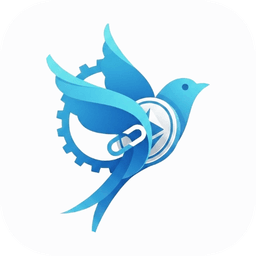
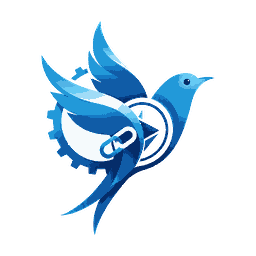
brand: new bird/rosace marks, and stop shipping the old ones forever
The bird is Bluestift, the rosace is Raya. Both now ship in a light and a
dark variant, transparent, 256x256, centred with a 10% margin so circular
masks do not bite the artwork. scripts/process-logos.py regenerates them
from assets/logos, which sits OUTSIDE /public on purpose: everything under
/public is served publicly and shipped in the deploy bundle, and the raw
crops are 1.5MB of no runtime use.

Two consequences of the swap had to be handled, and neither was obvious:

- The service worker caches /public images cache-first with no
  revalidation. The marks kept their filenames and changed their bytes, so
  every returning visitor would have kept the previous logo indefinitely.
  Bumping VERSION renames the cache, and activate drops every cache but the
  current one -- that is the only cache-bust this worker has.

- The marks are transparent now, where the old ones had a baked background.
  A blue bird on a navy sidebar is nearly invisible, so the app shell and
  the chat avatar pick the -dark variant via the theme. The PUBLIC SITE is a
  deliberate exception: it keeps the light mark in both themes (owner call --
  the blue bird is the brand signature and should not move when the page
  flips).

raya-mark-violet is renamed to raya-mark-dark, because the dark variant is
white and the old name described a colour that no longer exists. The violet
and emerald marks are removed. lib/doc-format.ts loses the violet accent for
[…]

Changed region(s): [[0.1562, 0.0938, 0.8438, 0.9062]]

diff --git a/test/brand-assets.test.ts b/test/brand-assets.test.ts
@@ -1,0 +1,84 @@
+import { describe, it, expect } from "vitest";
+import { readdirSync, readFileSync, existsSync, statSync } from "node:fs";
+import { join, extname } from "node:path";
+import { DOC_BRANDS } from "@/lib/doc-format";
+
+/**
+ * The brand marks are referenced by literal path from a dozen surfaces, so a
+ * renamed or regenerated file breaks silently: TypeScript never sees a string
+ * like "/raya-mark.png", and a 404'd <img> just renders nothing. This suite is
+ * the only thing that connects the two sides.
+ */
+
+const ROOT = join(__dirname, "..");
+const PUBLIC = join(ROOT, "public");
+const SCAN = ["app", "components", "lib"];
+const SOURCE_EXT = new Set([".ts", ".tsx"]);
+
+function sourceFiles(dir: string): string[] {
+  const out: string[] = [];
+  for (const entry of readdirSync(dir, { withFileTypes: true })) {
+    const full = join(dir, entry.name);
+    if (entry.isDirectory()) out.push(...sourceFiles(full));
+    else if (SOURCE_EXT.has(extname(entry.name))) out.push(full);
+  }
+  return out;
+}
+
+const FILES = SCAN.flatMap((d) => sourceFiles(join(ROOT, d)));
+
+/** Every "/something-mark[-variant].png" literal appearing in app source. */
+function referencedMarks(): Map<string, string[]> {
+  const found = new Map<string, string[]>();
+  for (const file of FILES) {
+    const text = readFileSync(file, "utf8");
+    for (const m of text.matchAll(/["'](\/[a-z0-9-]*mark[a-z0-9-]*\.png)["']/g)) {
+      const rel = file.slice(ROOT.length + 1).replace(/\\/g, "/");
+      found.set(m[1], [...(found.get(m[1]) ?? []), rel]);
+    }
+  }
+  return found;
+}
+
+describe("brand marks", () => {
+  it("every mark referenced in app source exists in /public", () => {
+    const refs = referencedMarks();
+    // Guard the guard: if the regex ever stops matching, the suite would pass
+    // vacuously and we'd learn nothing.
+    expect(refs.size).toBeGreaterThan(3);
+
+    const missing = [...refs.entries()]
+      .filter(([path]) => !existsSync(join(PUBLIC, path)))
+      .map(([path, users]) => `${path} (used by ${users.join(", ")})`);
+    expect(missing).toEqual([]);
+  });
+
+  it("each light mark has the dark variant the themed surfaces need", () => {
+    // A transparent light mark (blue/black artwork) vanishes on a dark surface,
+    // so the -dark counterpart must exist for every base mark we ship.
+    for (const base of ["bluestift-mark", "raya-mark"]) {
+      expect(existsSync(join(PUBLIC, `${base}.png`)), `${base}.png`).toBe(true);
+      expect(existsSync(join(PUBLIC, `${base}-dark.png`)), `${base}-dark.png`).toBe(true);
+    }
+  });
+
+  it("keeps the marks small enough for a 2G/3G first paint", () => {
+    // They are quantised by scripts/process-logos.py; skipping that step ships
+    // them at ~4x weight, which is exactly the regression worth catching.
+    for (const name of readdirSync(PUBLIC).filter((f) => /mark.*\.png$/.test(f))) {
+      const kb = statSync(join(PUBLIC, name)).size / 1024;
+      expect(kb, `${name} is ${kb.toFixed(1)} KB`).toBeLessThan(20);
+    }
+  });
+
+  it("exported documents point at a logo that exists", () => {
+    for (const brand of Object.values(DOC_BRANDS)) {
+      expect(existsSync(join(PUBLIC, brand.logo)), brand.logo).toBe(true);
+      expect(brand.accent).toMatch(/^#[0-9a-f]{6}$/);
+    }
+  });
+
+  it("keeps the raw logo sources out of /public, which is served publicly", () => {
+    expect(existsSync(join(PUBLIC, "logos"))).toBe(false);
+  });
+});

diff --git a/lib/doc-format.ts b/lib/doc-format.ts
@@ -19,7 +19,9 @@ export type BrandInfo = {
 /** Brand identity for a document. Schools/prof docs are Bluestift; Raya docs are Raya. */
 export const DOC_BRANDS: Record<DocBrand, BrandInfo> = {
   bluestift: { name: "Bluestift", logo: "/bluestift-mark.png", accent: "#2f7fe0", url: "thebluestift.com" },
-  raya: { name: "Raya", logo: "/raya-mark.png", accent: "#6366f1", url: "thebluestift.com" },
+  // Raya's accent is sampled from its own mark (the deep blue of the rosace), not
+  // the old violet — a document header must not clash with the logo printed above it.
+  raya: { name: "Raya", logo: "/raya-mark.png", accent: "#0248d1", url: "thebluestift.com" },
 };
 
 export type DocBlockType = "h1" | "h2" | "h3" | "p" | "li";

diff --git a/components/site/Navbar.tsx b/components/site/Navbar.tsx
@@ -83,6 +83,9 @@ export default function Navbar({
         <Link href="/" style={{ display: "flex", alignItems: "center", gap: 8, textDecoration: "none" }}>
           {/* eslint-disable-next-line @next/next/no-img-element */}
           <img
+            // The public site keeps the light mark in both themes, by design:
+            // the blue bird is the brand signature and stays put when the page
+            // flips to dark. Only the app shell swaps in the -dark variant.
             src="/bluestift-mark.png"
             alt="BlueStift"
             style={{ width: 44, height: 44, borderRadius: "50%", objectFit: "cover", flexShrink: 0 }}

diff --git a/components/site/Footer.tsx b/components/site/Footer.tsx
@@ -89,6 +89,7 @@ export default function Footer({ theme: t, variant = "full" }: { theme: Theme; v
         <div className="pub-footer-grid" style={{ marginBottom: 40 }}>
           <div>
             <div style={{ display: "flex", alignItems: "center", gap: 8, marginBottom: 12 }}>
+              {/* Light mark in both themes — see the note in Navbar.tsx. */}
               {/* eslint-disable-next-line @next/next/no-img-element */}
               <img src="/bluestift-mark.png" alt="BlueStift" style={{ width: 26, height: 26, borderRadius: 7, objectFit: "cover" }} />
               <span style={{ fontSize: 15, fontWeight: 800 }}>

diff --git a/public/sw.js b/public/sw.js
@@ -21,7 +21,12 @@
  * to the next, and a stale API response is worse than none.
  */
 
-const VERSION = "v1";
+// Bump on any change to a STABLE public asset. `cacheFirst` never revalidates a
+// /public image, so a file that keeps its name but changes its bytes (the brand
+// marks did) would otherwise be served from the old cache forever. Bumping the
+// version renames the cache, and `activate` deletes every cache but the current
+// one — that is the only cache-bust this worker has.
+const VERSION = "v2";
 const STATIC_CACHE = `bluestift-static-${VERSION}`;
 const OFFLINE_URL = "/offline.html";
 /**

diff --git a/components/raya/raya-app.tsx b/components/raya/raya-app.tsx
@@ -97,7 +97,7 @@ export function RayaApp() {
         expandedWidth={212}
         onBackgroundClick={() => setCollapsed((c) => !c)}
       >
-        <SidebarBrand theme={t} collapsed={collapsed} logoSrc="/raya-mark.png" logoSrcDark="/raya-mark-violet.png" logoRadius={0} logoSize={52} name="Raya" />
+        <SidebarBrand theme={t} collapsed={collapsed} logoSrc="/raya-mark.png" logoSrcDark="/raya-mark-dark.png" logoRadius={0} logoSize={52} name="Raya" />
 
         <NavItem
           theme={t}

diff --git a/components/chat/chat-avatar.tsx b/components/chat/chat-avatar.tsx
@@ -42,7 +42,7 @@ export function ChatAvatar({
       <span style={{ ...base, background: t.dark ? "#141b2e" : "#ffffff", border: `1px solid ${t.cardBorder}` }}>
         {/* eslint-disable-next-line @next/next/no-img-element */}
         <img
-          src={t.dark ? "/raya-mark-violet.png" : "/raya-mark.png"}
+          src={t.dark ? "/raya-mark-dark.png" : "/raya-mark.png"}
           alt="Raya"
           style={{ width: "82%", height: "82%", objectFit: "contain" }}
         />

diff --git a/components/ui/shell.tsx b/components/ui/shell.tsx
@@ -197,7 +197,8 @@ export function SidebarBrand({
   theme: AppTheme;
   collapsed: boolean;
   logoSrc: string;
-  /** Optional dark-mode logo (e.g. emerald rosace); falls back to `logoSrc`. */
+  /** Dark-mode logo. The marks are transparent, so the light variant (blue artwork)
+   *  disappears on a dark sidebar — pass the `-dark` file here. Falls back to `logoSrc`. */
   logoSrcDark?: string;
   logoRadius?: number;
   logoSize?: number;

diff --git a/components/site/LanguagePrompt.tsx b/components/site/LanguagePrompt.tsx
@@ -138,6 +138,7 @@ export function LanguagePrompt({ theme: t }: { theme: Theme }) {
       >
         {/* eslint-disable-next-line @next/next/no-img-element */}
         <img
+          // Light mark in both themes — see the note in Navbar.tsx.
           src="/bluestift-mark.png"
           alt=""
           style={{ width: 40, height: 40, borderRadius: "50%", objectFit: "cover", margin: "0 auto 14px", display: "block" }}

diff --git a/components/raya/raya-shell.tsx b/components/raya/raya-shell.tsx
@@ -172,7 +172,7 @@ export function RayaShell({
           theme={t}
           collapsed={effectiveCollapsed}
           logoSrc="/raya-mark.png"
-          logoSrcDark="/raya-mark-violet.png"
+          logoSrcDark="/raya-mark-dark.png"
           logoRadius={0}
           logoSize={52}
           name={<RayaName />}

diff --git a/components/school/schools-shell.tsx b/components/school/schools-shell.tsx
@@ -119,6 +119,7 @@ export function SchoolsShell({
           theme={t}
           collapsed={effectiveCollapsed}
           logoSrc="/bluestift-mark.png"
+          logoSrcDark="/bluestift-mark-dark.png"
           logoRadius={9}
           logoSize={30}
           name={<SchoolsName />}

diff --git a/scripts/process-logos.py b/scripts/process-logos.py
@@ -1,0 +1,204 @@
+"""
+Turn the delivered logo crops in assets/logos into the canonical brand marks in
+public/. Run from the repo root:  python scripts/process-logos.py
+Needs Pillow. The sources live outside /public deliberately — they are 1.5 MB of
+raw crops with no runtime use, and everything under /public is served publicly.
+
+AFTER RUNNING THIS, BUMP `VERSION` IN public/sw.js. The marks keep their
+filenames, and the service worker caches /public images with no revalidation, so
+returning visitors would otherwise keep the previous logo forever.
+
+Each source is a screenshot-style crop: opaque baked background, off-centre,
+inconsistent aspect ratio, and (on the navy ones) leftover white strips from the
+crop. This produces square, transparent, 256x256 marks.
+
+Steps per file:
+  1. Flood-fill the background from the border only. Border-connected fill is
+     what preserves the WHITE INSIDE the artwork (the petals and the compass
+     face are white too) - a global "make white transparent" would punch holes
+     through the mark itself.
+  2. Drop leftover crop strips: any opaque island that still touches the image
+     edge and is thin in one dimension.
+  3. Trim to the artwork, pad to a centred square with a 10% margin so the mark
+     doesn't collide with the circular masks the UI applies.
+  4. Downscale to 256x256 (Lanczos), quantise to a small palette, and write an
+     optimised PNG.
+"""
+
+from collections import deque
+from pathlib import Path
+from PIL import Image
+
+SRC = Path("assets/logos")
+OUT = Path("public")
+SIZE = 256
+MARGIN = 0.10
+# These are flat-colour marks: a small palette is visually lossless on them and
+# cuts the PNG roughly 4x (38 KB -> 9 KB), which is the whole point on the 2G/3G
+# connections this product targets. Do NOT drop this step — without it the marks
+# ship at ~4x weight and undo the gain over the raw crops.
+COLORS = 64
+TOLERANCE = 60  # squared-distance threshold per channel triple, tuned per below
+
+# global_clear: also clear background-coloured pixels ENCLOSED by the artwork,
+# not just those reachable from the border. Safe only when the artwork contains
+# no background colour of its own — true for the two dark marks (white line art
+# on navy), false for the light ones (their petals and compass face are white,
+# the same white as the background, so a global clear would gut them).
+JOBS = [
+    ("bird-blue-on-white.png", "bluestift-mark.png", False),
+    ("bird-white-on-navy.png", "bluestift-mark-dark.png", True),
+    ("flower-blue-on-white.png", "raya-mark.png", False),
+    ("flower-white-on-navy.png", "raya-mark-dark.png", True),
+    ("flower-black-on-white.png", "raya-mark-black.png", False),
+]
+
+
+def close(a, b, tol=TOLERANCE):
+    return (
+        abs(a[0] - b[0]) <= tol and abs(a[1] - b[1]) <= tol and abs(a[2] - b[2]) <= tol
+    )
+
+
+def flood_background(im):
+    """Clear background pixels reachable from the border. Returns pixels cleared."""
+    w, h = im.size
+    px = im.load()
+    # Background = the dominant colour around the WHOLE border, not the corners.
+    # The navy crops carry white strips along two edges, so three of four corners
+    # can be strip-white; sampling corners alone picks the strip and leaves the
+    # real background untouched. Quantise to 1/8 so anti-aliasing doesn't split
+    # the vote across near-identical shades.
+    # A plain border vote still ties on the bird: its white crop strips run the
+    # full right and bottom edges, matching the navy on the other two. So among
+    # the colours that appear on the border, take the one covering the most of
+    # the IMAGE — a background fills the canvas, a crop strip never does.
+    def key_of(c):
+        return (c[0] // 8, c[1] // 8, c[2] // 8)
+
+    on_border = set()
+    for x in range(w):
+        on_border.add(key_of(px[x, 0]))
+        on_border.add(key_of(px[x, h - 1]))
+    for y in range(h):
+        on_border.add(key_of(px[0, y]))
+        on_border.add(key_of(px[w - 1, y]))
+
+    area = {}
+    sample = {}
+    for x in range(w):
+        for y in range(h):
+            c = px[x, y]
+            k = key_of(c)
+            if k in on_border:
+                area[k] = area.get(k, 0) + 1
+                sample.setdefault(k, c)
+    bg = sample[max(area, key=area.get)]
+    # Using ONE colour (not every colour found on the border) matters: accepting
+    # the strip-white too would let the fill eat the white artwork itself.
+
+    seen = [[False] * h for _ in range(w)]
+    q = deque()
+    for x in range(w):
+        for y in (0, h - 1):
+            if not seen[x][y] and close(px[x, y], bg):
+                seen[x][y] = True
+                q.append((x, y))
+    for y in range(h):
+        for x in (0, w - 1):
+            if not seen[x][y] and close(px[x, y], bg):
+                seen[x][y] = True
+                q.append((x, y))
+
+    cleared = 0
+    while q:
+        x, y = q.popleft()
+        px[x, y] = (0, 0, 0, 0)
+        cleared += 1
+        for dx, dy in ((1, 0), (-1, 0), (0, 1), (0, -1)):
+            nx, ny = x + dx, y + dy
+            if 0 <= nx < w and 0 <= ny < h and not seen[nx][ny]:
+                if close(px[nx, ny], bg):
+                    seen[nx][ny] = True
+                    q.append((nx, ny))
+    return cleared, bg
+
+
+def drop_edge_strips(im):
+    """Erase opaque islands that touch the border and are thin — crop leftovers."""
+    w, h = im.size
+    px = im.load()
+    seen = [[False] * h for _ in range(w)]
+    dropped = []
+    for sx in range(w):
+        for sy in range(h):
+            if seen[sx][sy] or px[sx, sy][3] == 0:
+                continue
+            comp = []
+            q = deque([(sx, sy)])
+            seen[sx][sy] = True
+            touches = False
+            while q:
+                x, y = q.popleft()
+                comp.append((x, y))
+                if x in (0, w - 1) or y in (0, h - 1):
+                    touches = True
+                for dx, dy in ((1, 0), (-1, 0), (0, 1), (0, -1)):
+                    nx, ny = x + dx, y + dy
+                    if 0 <= nx < w and 0 <= ny < h and not seen[nx][ny] and px[nx, ny][3] > 0:
+                        seen[nx][ny] = True
+                        q.append((nx, ny))
+            xs = [p[0] for p in comp]
+            ys = [p[1] for p in comp]
+            cw, ch = max(xs) - min(xs) + 1, max(ys) - min(ys) + 1
+            # Thin catches a single strip. Sparse catches the L-shaped pair: the
+            # right and bottom strips meet at the corner as ONE component whose
+            # bounding box spans the whole canvas while filling almost none of it.
+            thin = cw <= w * 0.08 or ch <= h * 0.08
+            sparse = len(comp) < cw * ch * 0.15
+            if touches and (thin or sparse):
+                for x, y in comp:
+                    px[x, y] = (0, 0, 0, 0)
+                dropped.append((cw, ch, len(comp)))
+    return dropped
+
+
+for src_name, out_name, global_clear in JOBS:
+    src = SRC / src_name
+    im = Image.open(src).convert("RGBA")
+    before = im.size
+
+    cleared, bg = flood_background(im)
+    if global_clear:
+        w, h = im.size
+        px = im.load()
+        for x in range(w):
+            for y in range(h):
+                c = px[x, y]
+                if c[3] and close(c, bg):
+                    px[x, y] = (0, 0, 0, 0)
+                    cleared += 1
+    dropped = drop_edge_strips(im)
+
+    bbox = im.getbbox()
+    if not bbox:
+        print(f"!! {src_name}: nothing left after clearing — SKIPPED")
+        continue
+    art = im.crop(bbox)
+
+    side = int(max(art.size) * (1 + 2 * MARGIN))
+    canvas = Image.new("RGBA", (side, side), (0, 0, 0, 0))
+    canvas.paste(art, ((side - art.width) // 2, (side - art.height) // 2), art)
+
+    final = canvas.resize((SIZE, SIZE), Image.LANCZOS)
+    # FASTOCTREE is the only Pillow quantiser that keeps the alpha channel; the
+    # default (median cut) would flatten the transparency we just carved out.
+    final = final.quantize(colors=COLORS, method=Image.Quantize.FASTOCTREE)
+    dest = OUT / out_name
+    final.save(dest, "PNG", optimize=True)
+
+    kb = dest.stat().st_size / 1024
+    print(
+        f"{src_name:28} -> {out_name:24} bg={bg[:3]} cleared={cleared:>6} "
+        f"strips={len(dropped)} art={art.size} {before}->{SIZE}x{SIZE} {kb:.1f} KB"
+    )
